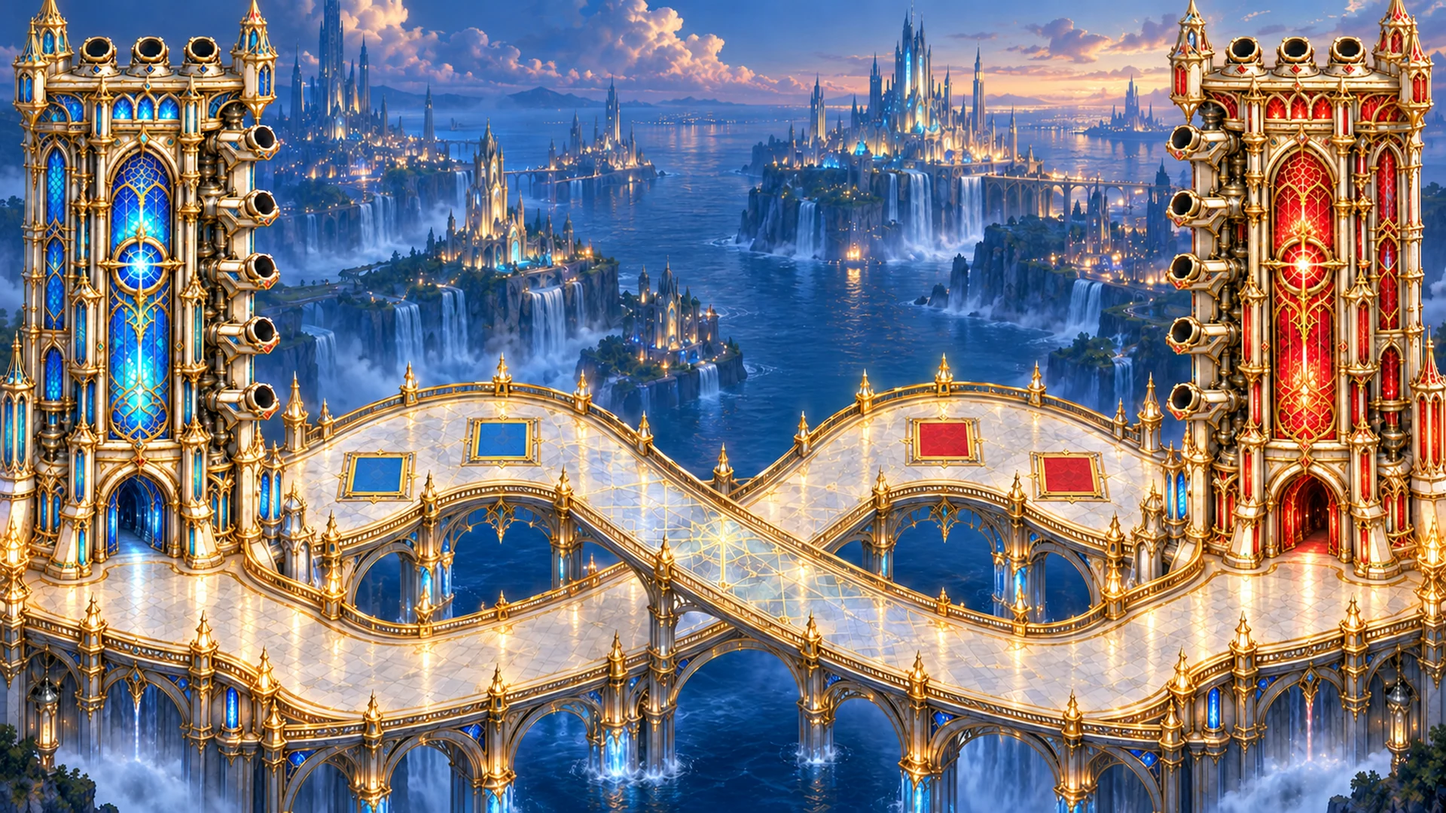
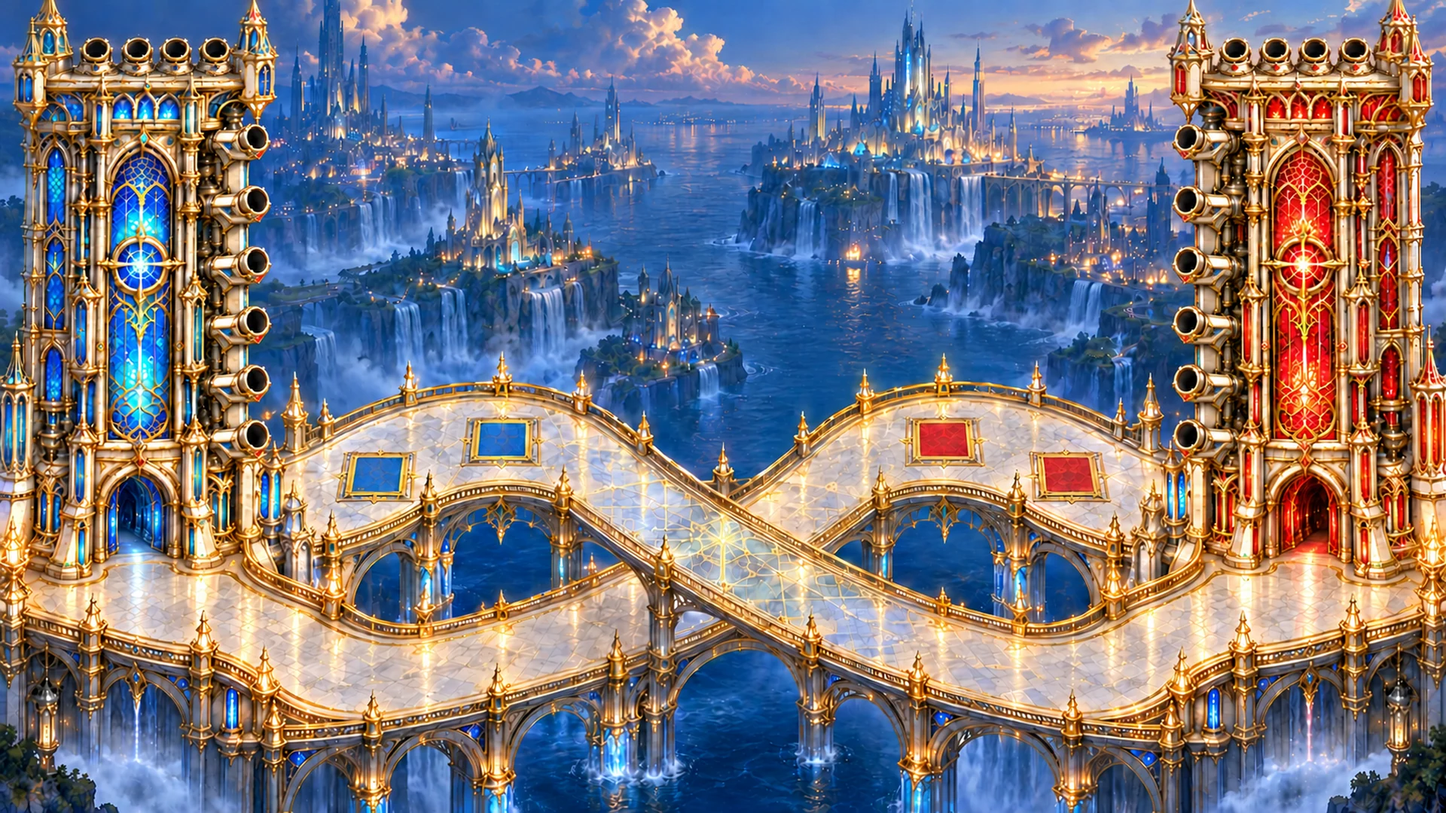
New battlefield bg with 4 roof + 6 side barrels; mounts re-aimed at the painted barrels
Claude-Session: https://claude.ai/code/session_01VAfnq769u6JX85bNNnzEvq

diff --git a/index.html b/index.html
@@ -337,11 +337,10 @@ const TWL = {x0: 28, x1: 142, top: 200};   // vector fallback tower, only drawn 
 const tw = (x, y) => [x * TS, TW.bot + (y - LG) * TS];
 const TCX = (TW.x0 + TW.x1) / 2;
 const CANNON = {px: TCX, py: 0.3 * H, arm: 40, vmax: 1000, minA: -0.25, maxA: 1.45, radius: 48, reload: 1.3};
-// The ten gameplay mounts (four roof, six side) as fractions of the background. The painted keep shows only three roof and five side
-// sockets, so these are paired anchors; see LORE.md / the route notes for the missing socket art.
+// The ten gameplay mounts (four roof, six side) as fractions of the background. The painted keep now shows exactly four roof barrels and
+// six side barrels, so every mount sits on its own painted barrel (measured from bg art: roof mouths y=59, side mouths y=160-505 of 941).
 const MOUNTS_L = [[57, 190], [80, 190], [104, 190], [122, 190], [152, 235], [152, 269], [152, 305], [152, 341], [152, 380], [152, 420]];   // vector fallback tower only
-// measured from the painted tower: three roof barrels and five side barrels; R4 sits on the corner pinnacle and S6 on the pillar base below the last barrel
-const MOUNTS_N = [[0.0672, 0.064], [0.1037, 0.064], [0.1393, 0.064], [0.1745, 0.079], [0.165, 0.172], [0.165, 0.252], [0.165, 0.331], [0.165, 0.409], [0.165, 0.488], [0.170, 0.566]];
+const MOUNTS_N = [[0.0670, 0.0627], [0.0951, 0.0627], [0.1208, 0.0627], [0.1483, 0.0627], [0.165, 0.170], [0.165, 0.2465], [0.165, 0.321], [0.165, 0.395], [0.165, 0.4676], [0.165, 0.5367]];
 const MOUNTS = MOUNTS_N.map(([u, v]) => [u * W, v * H]);
 const MOUNT_LABEL = ['R1', 'R2', 'R3', 'R4', 'S1', 'S2', 'S3', 'S4', 'S5', 'S6'];   // four roof mounts, six on the inward-facing side
 const MOUNT_ORDER = [4, 5, 6, 7, 8, 9, 1, 2, 0, 3];

diff --git a/BATTLEFIELD.md b/BATTLEFIELD.md
@@ -13,13 +13,13 @@ planning +30 s, barrierCost 6, slowCost 4, refund 0.5, barrierHp 400, barrierRad
 Measured unimpeded travel (mean of 12, turrets off): trooper 11-13 s, bike ~5 s, bulwark ~17 s, titan ~11 s. Two slow fields add ~0.5-4 s; a single unit cannot break a barrier within a round, a group can.
 
 ## Art dependencies
-Separate bridge foreground mask; 10-socket tower art (painted keep shows 3 roof / 5 side sockets); final terrain sprites (`art/terrain/{barrier,slow_field}_{blue,red}.webp`, sizes/pivots in `TERRAIN_DRAW`). Dev overlay: backquote key or `?dev`.
+Separate bridge foreground mask; 10-socket tower art (painted keep now shows 4 roof / 6 side barrels); final terrain sprites (`art/terrain/{barrier,slow_field}_{blue,red}.webp`, sizes/pivots in `TERRAIN_DRAW`). Dev overlay: backquote key or `?dev`.
 
 GAME_VER is 4 (old async builds are ignored).
 
 ## Update: drones, mounts, weapon art, HUD
 - Drones launch from their own keep's roof and arc to a point on the upper three quarters of the opposing tower (`launchDrone`/`placeDrone`); they ignore the ground routes and terrain.
-- The ten mounts now sit on the painted tower: three roof barrels and five side barrels exactly, R4 on the corner pinnacle and S6 on the pillar base (no painted socket for those two). Weapon sprites are drawn 30% larger (roof weapons keep their old size) so they cover the painted barrels.
+- The ten mounts sit on the painted tower, one per barrel: four roof barrels and six side barrels (new bg art). Note: the bg_red_* / bg_blue_* end-screen paintings still show the older 3 roof / 5 side tower (no painted socket for those two). Weapon sprites are drawn 30% larger (roof weapons keep their old size) so they cover the painted barrels.
 - Weapon and projectile art (`assets/w_*`, `assets/p_*`) are the 4K sources cropped to the same framing as before (weapons 1120 px long side, projectile strips 1920 px wide).
 - Top HUD rebuilt as live HTML/CSS from the HUD handoff (phase / timer / round centre panel, equal health tracks, LV | G | streak row).
 
